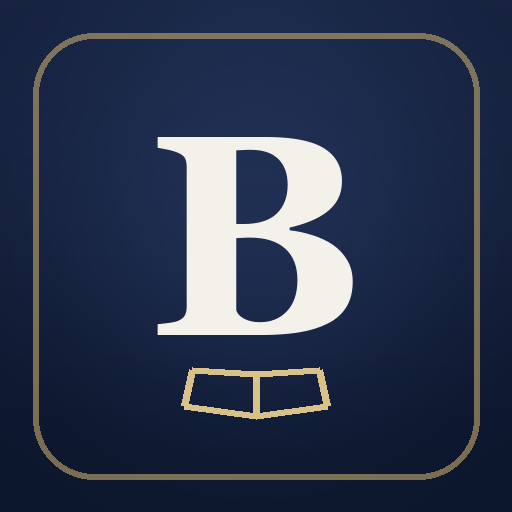
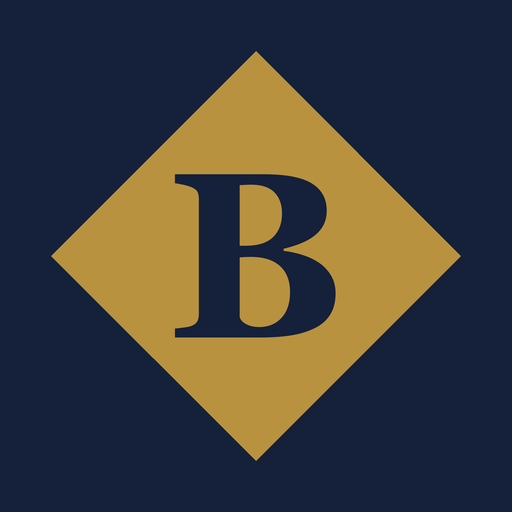
PWA 앱 아이콘을 새 로고(다이아몬드 B)로 교체
안드로이드/PWA 앱 아이콘(icon-192/512/maskable-512)이 옛 디자인(남색 사각형+책)
이라 새 브랜드 로고(남색 배경·금색 다이아몬드·남색 세리프 B, apple-touch-icon과
동일)로 재생성. maskable은 세이프존 확보. sw.js v13으로 캐시 갱신.

diff --git a/sw.js b/sw.js
@@ -1,6 +1,6 @@
 // 오광일 인사이트 브리핑 — 서비스 워커 (PWA)
 // 전략: HTML은 항상 네트워크(최신 유지), 정적자원만 캐시. 오프라인 시 폴백.
-const CACHE = 'bibleinsight-v12';
+const CACHE = 'bibleinsight-v13';
 const SHELL = ['/manifest.json'];
 
 self.addEventListener('install', (e) => {
